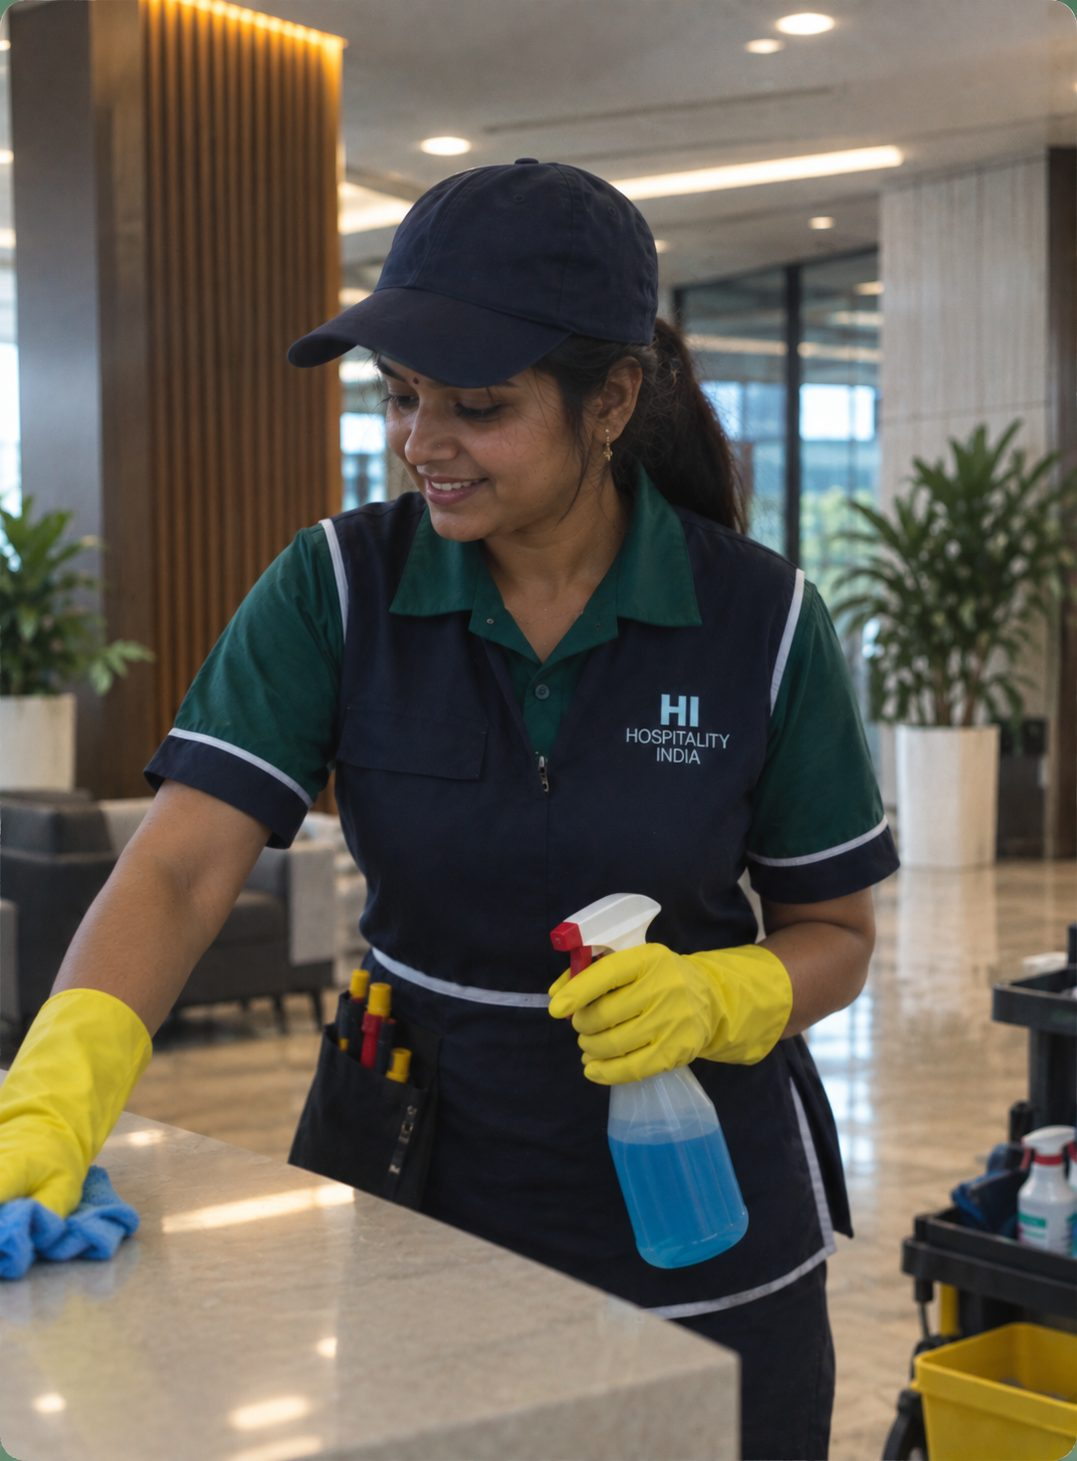
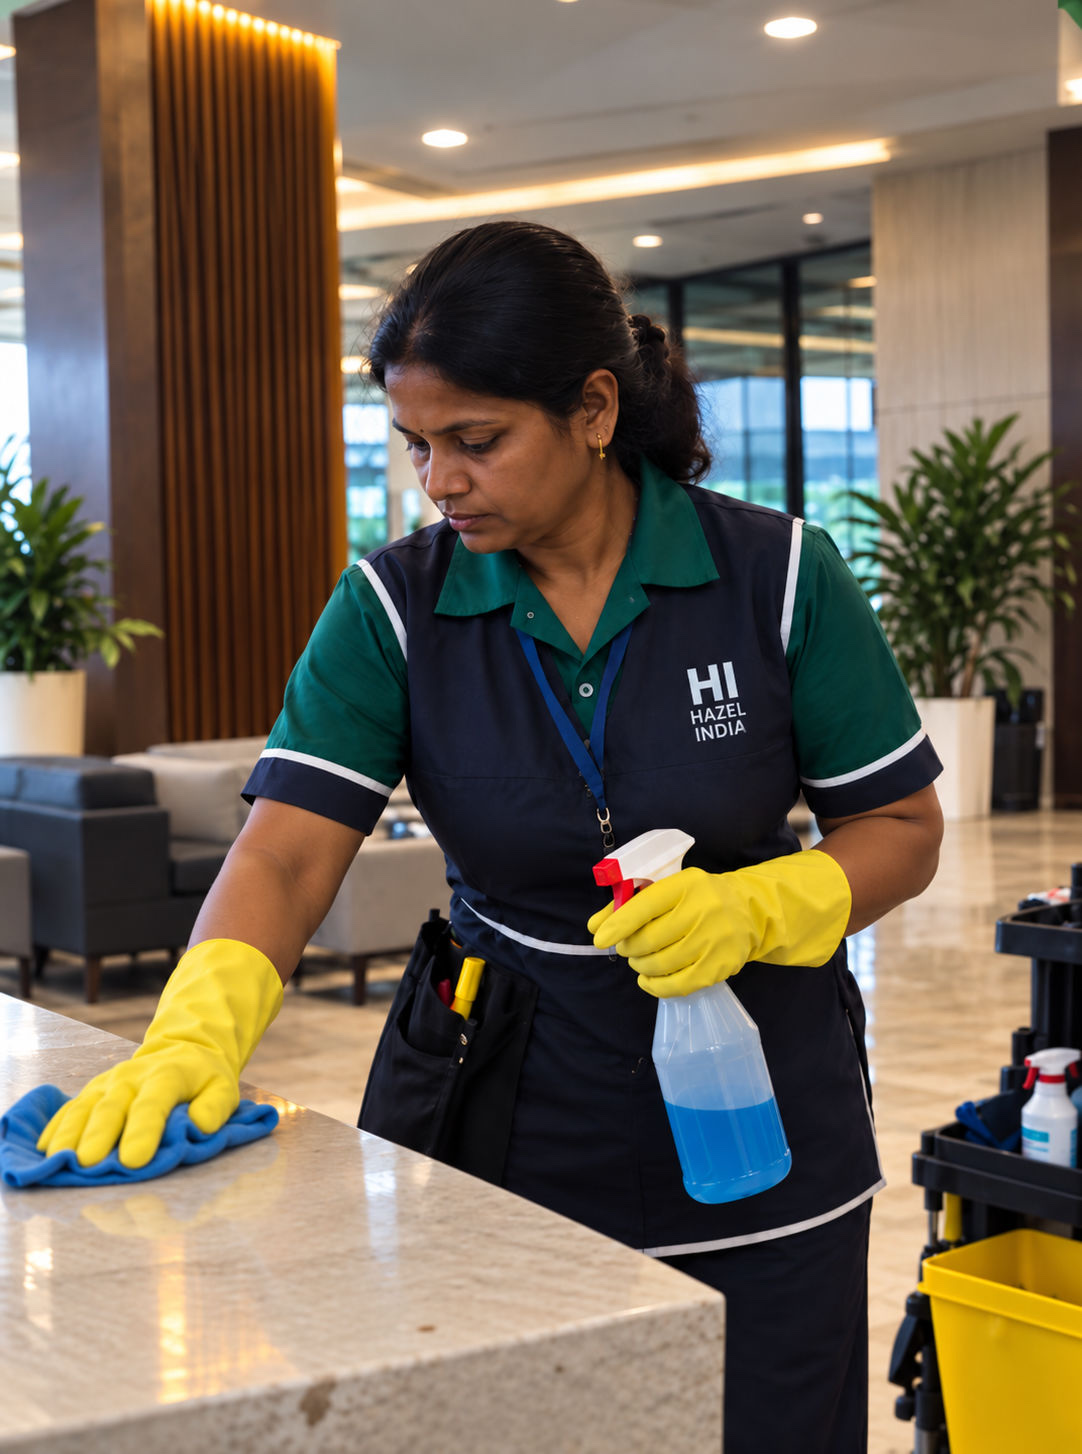
Update housekeeping, pest control and sustainability card images

diff --git a/src/content/site.ts b/src/content/site.ts
@@ -207,7 +207,7 @@ export const ifmGroup = {
       label: "Pest Control",
       href: "/pages/pest-control-services-in-hyderabad",
       image: "/images/services/pest-control-team.jpg",
-      alt: "Hazel India pest control technician treating a corridor skirting with a pressure sprayer",
+      alt: "Hazel India pest control technician fogging garden beds along a walkway",
     },
     {
       label: "Waste Management",
@@ -340,7 +340,7 @@ export const solutions = {
       text: "Safe, scheduled pest management for homes, offices, factories and communities.",
       icon: "Bug",
       image: "/images/services/pest-control-team.jpg",
-      alt: "Hazel India pest control technician treating a corridor skirting with a pressure sprayer",
+      alt: "Hazel India pest control technician fogging garden beds along a walkway",
       href: "/pages/pest-control-services-in-hyderabad",
       category: "non-technical",
     },
@@ -735,8 +735,8 @@ export const problem = {
       icon: "TrendingDown",
       title: "No sustainability data",
       text: "ESG reporting means chasing five vendors for numbers.",
-      image: "/images/services/waste-bins.jpg",
-      alt: "Waste segregation bins for food, paper and plastic — sustainability data that rarely gets reported",
+      image: "/images/services/esg-dashboard.jpg",
+      alt: "Laptop showing a reporting dashboard — sustainability numbers pieced together from multiple vendors",
     },
     {
       icon: "RefreshCw",
